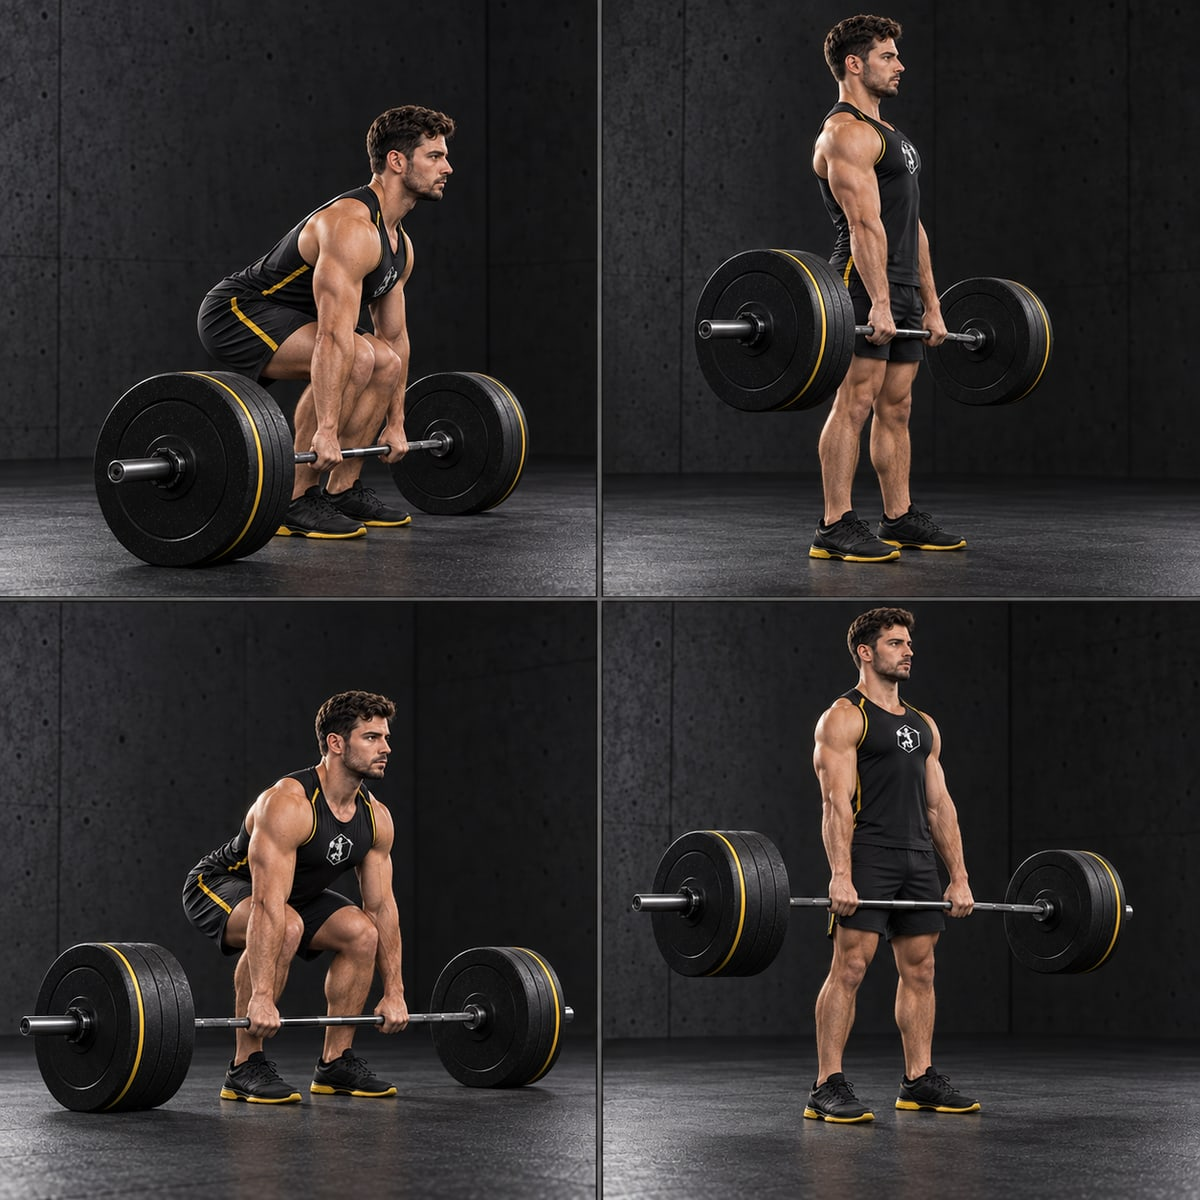
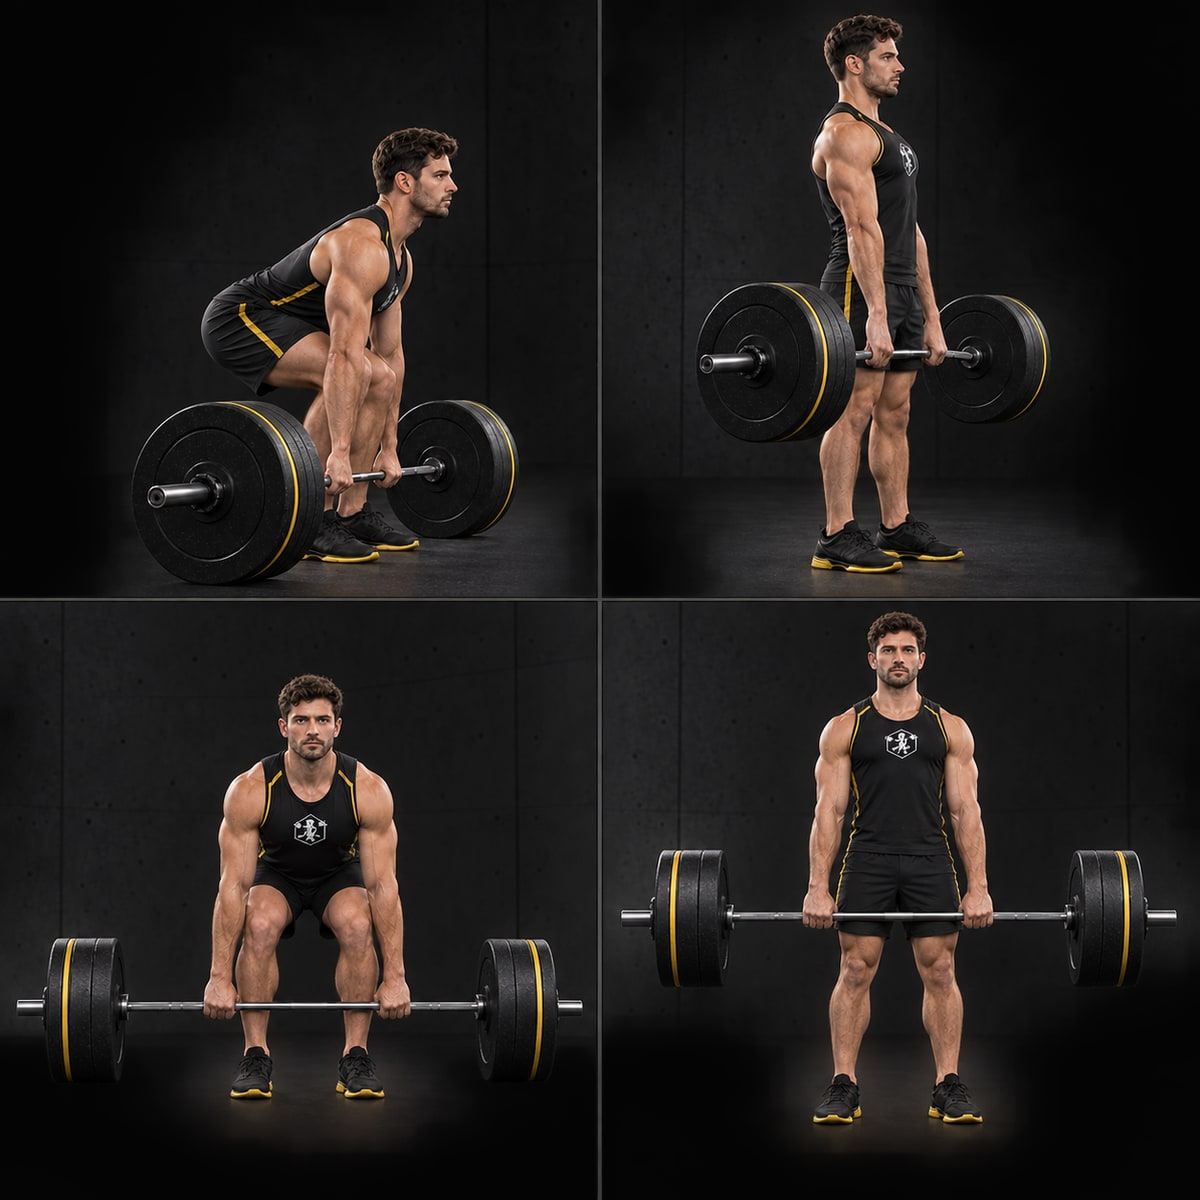
Fix movement illustrations and library thumbnails

diff --git a/app/(tabs)/library.tsx b/app/(tabs)/library.tsx
@@ -121,7 +121,7 @@ export default function ExerciseLibraryScreen() {
                   {illustration ? (
                     <Image
                       source={illustration}
-                      resizeMode="cover"
+                      resizeMode="contain"
                       style={styles.mediaImage}
                       accessibilityLabel={`Illustration du mouvement ${item.name}`}
                     />
@@ -163,9 +163,9 @@ const styles = StyleSheet.create({
   error: { color: colors.red, textAlign: "center" },
   list: { paddingHorizontal: 20, paddingBottom: 120 },
   count: { color: colors.muted2, fontSize: 12, fontWeight: "700", marginBottom: 10 },
-  card: { minHeight: 104, flexDirection: "row", alignItems: "center", borderWidth: 1, borderColor: colors.borderSoft, backgroundColor: "rgba(11,11,12,0.94)", borderRadius: radius.md, marginBottom: 10, overflow: "hidden" },
+  card: { minHeight: 124, flexDirection: "row", alignItems: "center", borderWidth: 1, borderColor: colors.borderSoft, backgroundColor: "rgba(11,11,12,0.94)", borderRadius: radius.md, marginBottom: 10, overflow: "hidden" },
   cardPressed: { opacity: 0.75 },
-  mediaPlaceholder: { width: 104, alignSelf: "stretch", alignItems: "center", justifyContent: "center", backgroundColor: colors.surface3, borderRightWidth: 1, borderRightColor: colors.borderSoft, overflow: "hidden" },
+  mediaPlaceholder: { width: 104, height: 104, flexShrink: 0, marginLeft: 10, alignItems: "center", justifyContent: "center", backgroundColor: colors.surface3, borderWidth: 1, borderColor: colors.borderSoft, borderRadius: radius.sm, overflow: "hidden" },
   mediaImage: { width: "100%", height: "100%" },
   mediaGlyph: { color: colors.yellow, fontSize: 24, fontWeight: "900" },
   cardBody: { flex: 1, paddingHorizontal: 14, paddingVertical: 12 },
